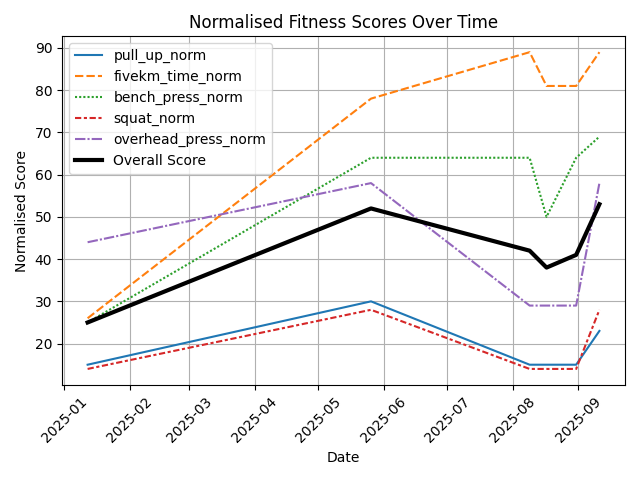
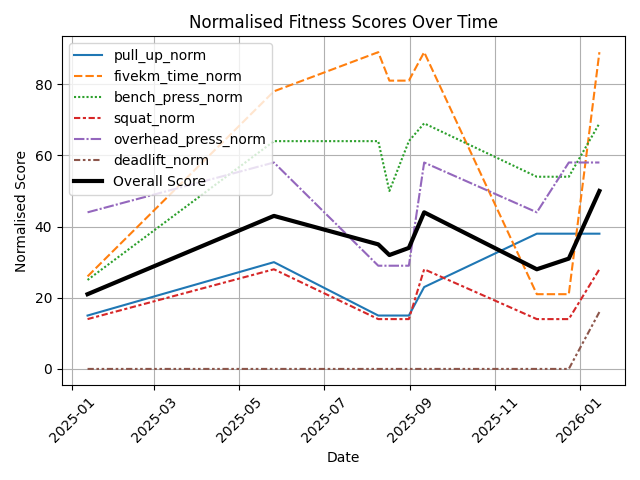
add deadlift

diff --git a/fitness_track.py b/fitness_track.py
@@ -22,10 +22,11 @@ class FitnessTracker:
             bench_press_norm = self.calculate_normalise_score(row['bench_press'], 47, 98)
             squat_norm = self.calculate_normalise_score(row['squat'], 60, 130)
             overhead_press_norm = self.calculate_normalise_score(row['overhead_press'], 30, 64)
+            deadlift_norm = self.calculate_normalise_score(row['deadlift'], 90,150)
 
             overall_score = self.calculate_average_scores(
                  pull_up_norm, fivekm_time_norm,
-                 bench_press_norm, squat_norm, overhead_press_norm
+                 bench_press_norm, squat_norm, overhead_press_norm, deadlift_norm
             )
 
             results.append({
@@ -36,6 +37,7 @@ class FitnessTracker:
                 'bench_press_norm': bench_press_norm,
                 'squat_norm': squat_norm,
                 'overhead_press_norm': overhead_press_norm,
+                'deadlift_norm':deadlift_norm,
             })
 
         results_df = pd.DataFrame.from_dict(results)
@@ -43,14 +45,19 @@ class FitnessTracker:
 
     def plot_results(self, results_df):
         data = results_df
-        data['date'] = pd.to_datetime(data['date'])
+        data['date'] = pd.to_datetime(
+                data['date'],
+                format='%d/%m/%Y',   # day/month/year
+                dayfirst=True        # extra safety; optional with the explicit format
+            )
         data.set_index('date', inplace=True)
         sns.lineplot(
             data=data[['pull_up_norm',
                        'fivekm_time_norm',
                        'bench_press_norm',
                        'squat_norm',
-                       'overhead_press_norm'
+                       'overhead_press_norm',
+                       'deadlift_norm'
                        ]],
                        )
 
@@ -70,6 +77,7 @@ class FitnessTracker:
         # process results
         results_df = self.process_results()
         # plot result
+        print(results_df)
         self.plot_results(results_df)
 
 inp_file = 'input_pbs.csv'
